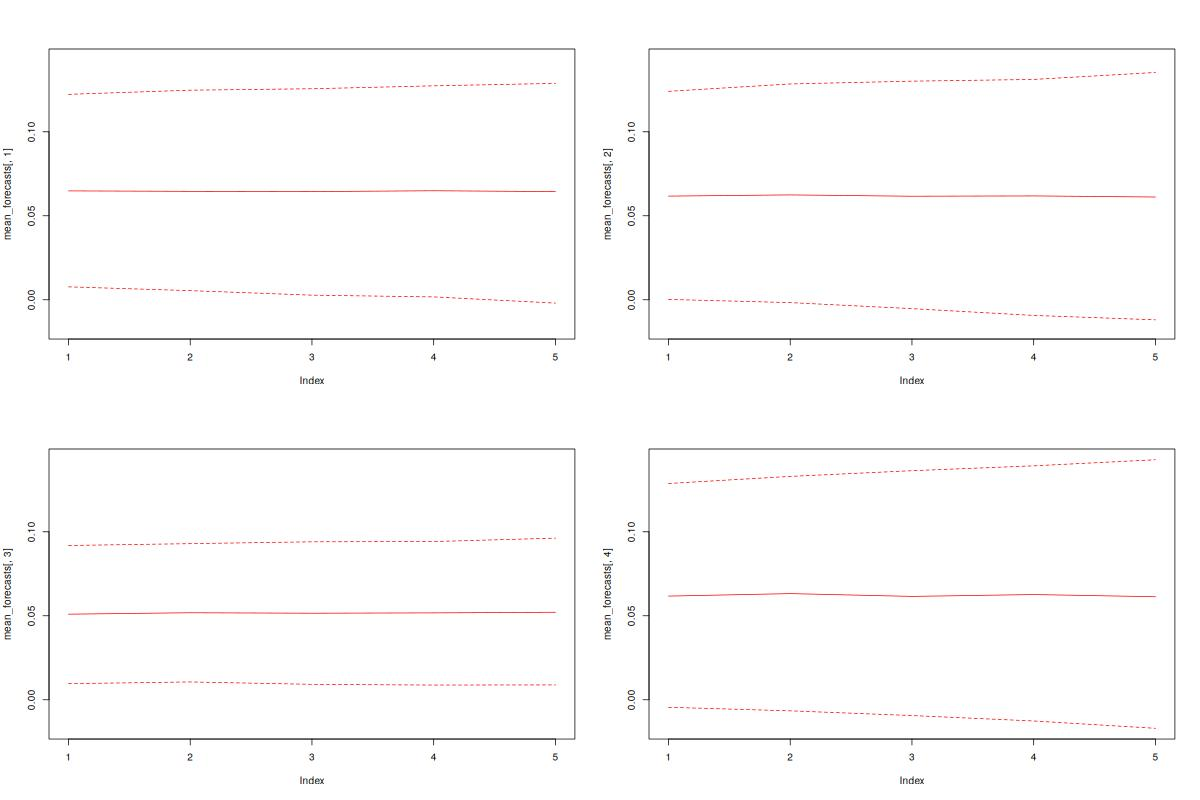
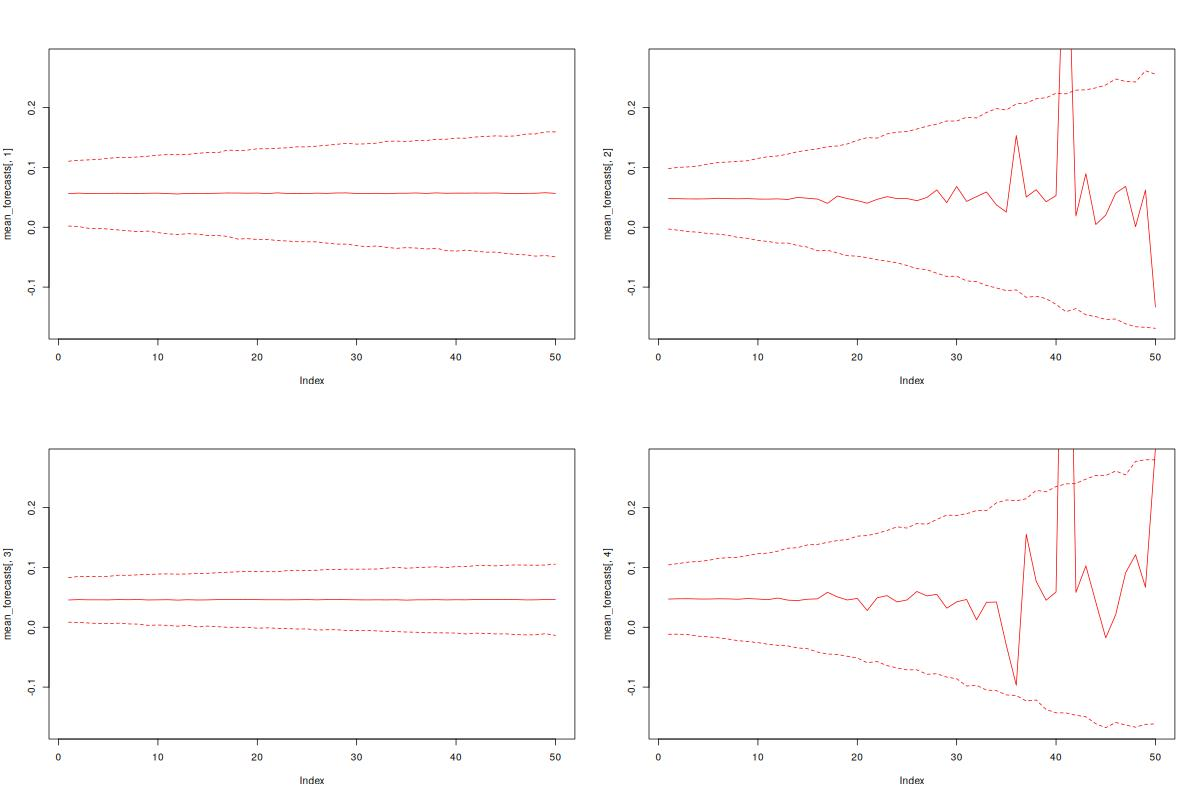
show higher multi step-ahead forecast example

diff --git a/README.md b/README.md
@@ -166,7 +166,7 @@ The `computeForecast` method creates multi step ahead forecasts, if the input ar
 multi_step_forecasts = sgdlm1$computeForecast(
   nsim = 10000,
   nsim_batch = 10000,
-  F_tp1 = array(F_tp1, c(dim(F_tp1), 5))
+  F_tp1 = array(F_tp1, c(dim(F_tp1), 50))
 )
 mean_forecasts = t(apply(multi_step_forecasts, c(1, 3), mean))
 upper_bound_forecasts = t(apply(multi_step_forecasts, c(1, 3), quantile, .95, na.rm = TRUE))
